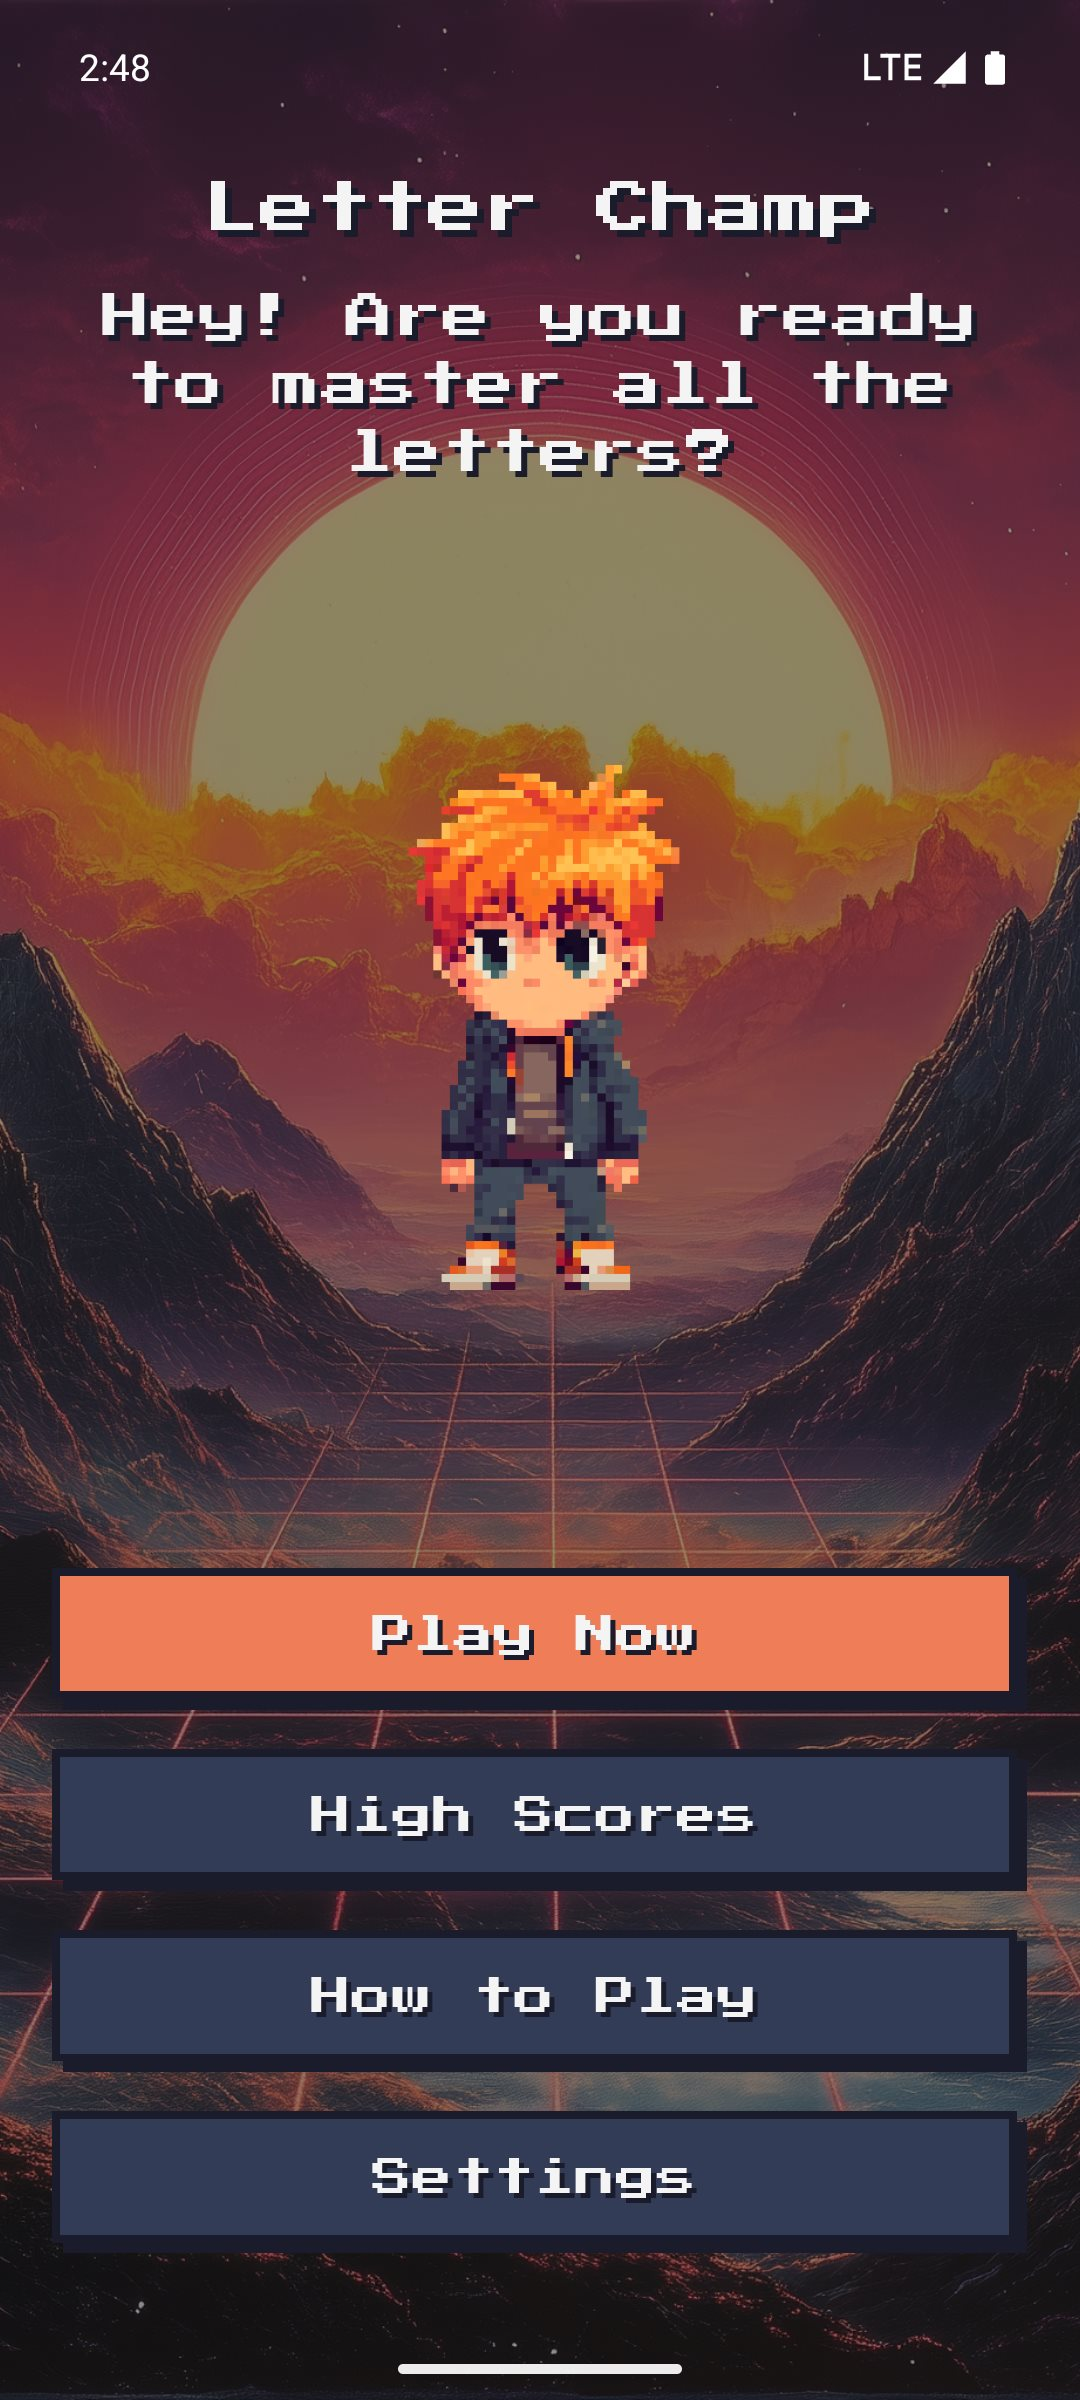
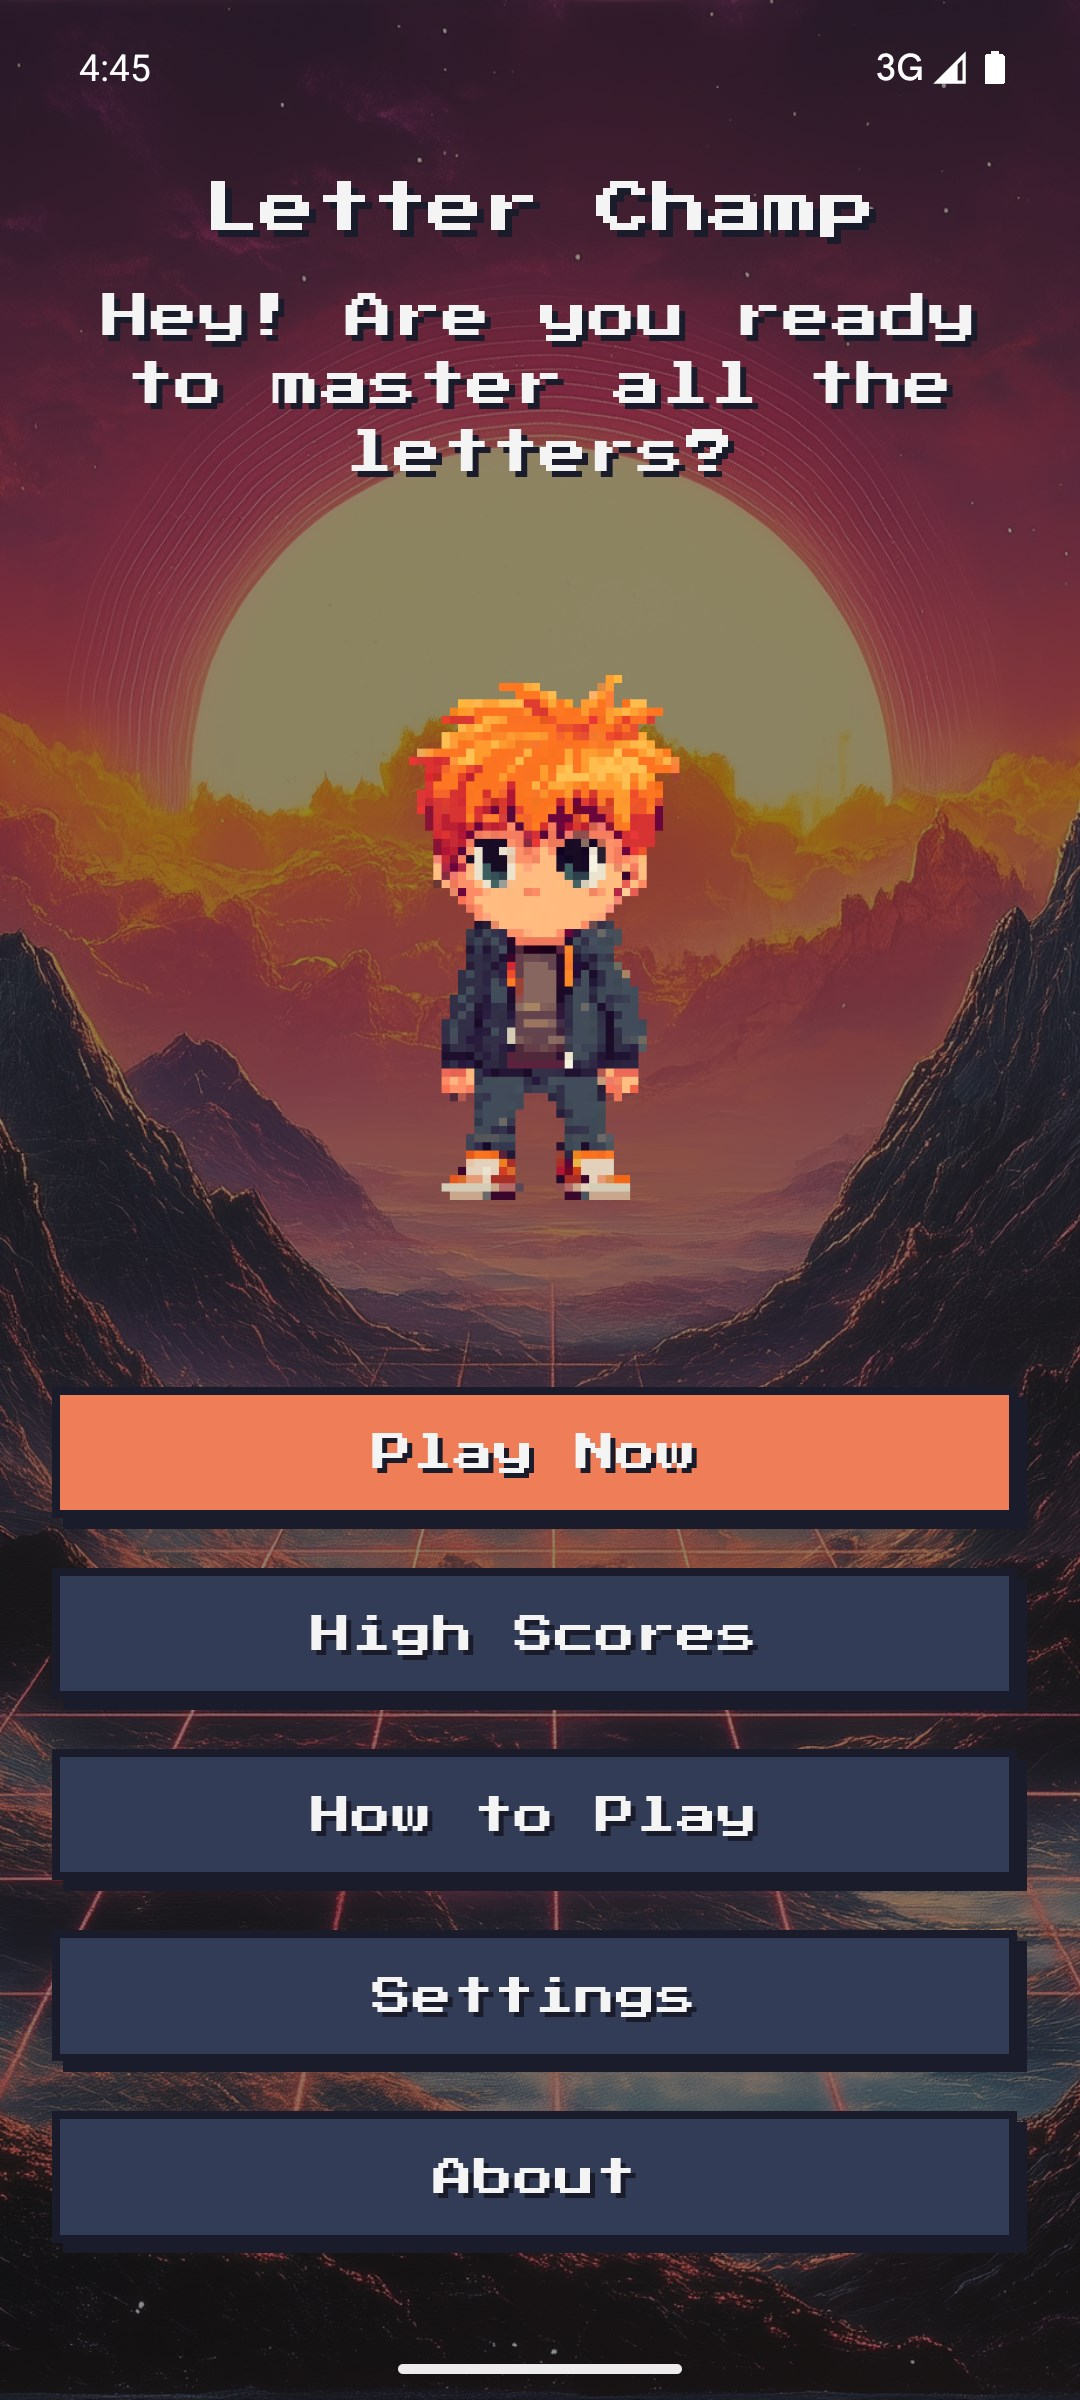
Add About page and credits for v1.0.1

diff --git a/lib/screens/about_screen.dart b/lib/screens/about_screen.dart
@@ -1,0 +1,187 @@
+import 'package:flutter/material.dart';
+import 'package:flutter/services.dart';
+import 'package:letterchamp/services/settings_service.dart';
+import 'package:letterchamp/services/sound_effects_manager.dart';
+import 'package:letterchamp/theme/retro_theme.dart';
+import 'package:letterchamp/theme/retro_widgets.dart';
+import 'package:url_launcher/url_launcher.dart';
+
+/// A short introduction and the app's creator and music credits.
+class AboutScreen extends StatefulWidget {
+  const AboutScreen({super.key});
+
+  @override
+  State<AboutScreen> createState() => _AboutScreenState();
+}
+
+class _AboutScreenState extends State<AboutScreen> {
+  bool _loading = true;
+  bool _swedish = false;
+
+  @override
+  void initState() {
+    super.initState();
+    _loadLanguage();
+  }
+
+  Future<void> _loadLanguage() async {
+    final language = await SettingsService().getLanguage();
+    if (!mounted) return;
+    setState(() {
+      _swedish = language == 'sv';
+      _loading = false;
+    });
+  }
+
+  void _goBack() {
+    SoundEffectsManager().play(SoundEffect.click);
+    Navigator.pop(context);
+  }
+
+  Future<void> _openGoodjob() async {
+    bool opened = false;
+    try {
+      opened = await launchUrl(
+        Uri.parse('https://goodjob.nu'),
+        mode: LaunchMode.externalApplication,
+      );
+    } on PlatformException {
+      // Let the player know if no browser can handle the link.
+    }
+    if (!opened && mounted) {
+      ScaffoldMessenger.of(context).showSnackBar(
+        retroSnackBar(
+          _swedish
+              ? 'Kunde inte öppna goodjob.nu'
+              : 'Could not open goodjob.nu',
+        ),
+      );
+    }
+  }
+
+  @override
+  Widget build(BuildContext context) {
+    final mainMenuText = _swedish ? 'Huvudmeny' : 'Main Menu';
+
+    return Scaffold(
+      body: RetroBackground(
+        child: SafeArea(
+          child: Padding(
+            padding: const EdgeInsets.symmetric(horizontal: 20),
+            child: Column(
+              children: [
+                AppBar(
+                  backgroundColor: Colors.transparent,
+                  elevation: 0,
+                  leading: RetroIconButton(
+                    glyph: PixelGlyph.arrowLeft,
+                    tooltip: mainMenuText,
+                    onPressed: _goBack,
+                  ),
+                  centerTitle: true,
+                  title: Text(
+                    _swedish ? 'Om spelet' : 'About',
+                    style: RetroText.style(16),
+                  ),
+                ),
+                Expanded(
+                  child:
+                      _loading
+                          ? const Center(child: RetroLoader())
+                          : LayoutBuilder(
+                            builder: (context, viewport) {
+                              return SingleChildScrollView(
+                                child: ConstrainedBox(
+                                  constraints: BoxConstraints(
+                                    minHeight: viewport.maxHeight,
+                                  ),
+                                  child: Padding(
+                                    padding: const EdgeInsets.symmetric(
+                                      vertical: 24,
+                                    ),
+                                    child: Column(
+                                      mainAxisAlignment:
+                                          MainAxisAlignment.center,
+                                      children: [
+                                        Text(
+                                          'Letter Champ',
+                                          style: RetroText.style(20),
+                                          textAlign: TextAlign.center,
+                                        ),
+                                        const SizedBox(height: 24),
+                                        Text(
+                                          _swedish
+                                              ? 'Jag gjorde Letter Champ för min son, så att han kunde öva på att skriva bokstäver i rätt ordning och riktning.\n\nDet är ett hobbyprojekt som jag delar i hopp om att fler barn får glädje av det.'
+                                              : 'I made Letter Champ for my son to practice drawing letters in the right order and direction.\n\nIt is a hobby project, shared in the hope that it helps other children learn, too.',
+                                          style: RetroText.style(
+                                            12,
+                                          ).copyWith(height: 1.7),
+                                          textAlign: TextAlign.center,
+                                        ),
+                                        const SizedBox(height: 24),
+                                        TextButton(
+                                          onPressed: _openGoodjob,
+                                          style: TextButton.styleFrom(
+                                            foregroundColor: RetroColors.mist,
+                                            minimumSize: const Size(48, 48),
+                                            padding: const EdgeInsets.symmetric(
+                                              horizontal: 12,
+                                            ),
+                                          ),
+                                          child: Text.rich(
+                                            TextSpan(
+                                              text:
+                                                  _swedish
+                                                      ? 'Skapad av '
+                                                      : 'Made by ',
+                                              children: const [
+                                                TextSpan(
+                                                  text: 'goodjob.nu',
+                                                  style: TextStyle(
+                                                    decoration:
+                                                        TextDecoration
+                                                            .underline,
+                                                  ),
+                                                ),
+                                              ],
+                                            ),
+                                            style: RetroText.style(
+                                              12,
+                                              color: RetroColors.mist,
+                                              shadow: false,
+                                            ),
+                                            textAlign: TextAlign.center,
+                                          ),
+                                        ),
+                                        const SizedBox(height: 24),
+                                        // Wording required by the music's license.
+                                        Text(
+                                          'Credit: https://www.FesliyanStudios.com Background Music',
+                                          style: RetroText.style(
+                                            10,
+                                            color: RetroColors.mist,
+                                            shadow: false,
+                                          ).copyWith(height: 1.7),
+                                          textAlign: TextAlign.center,
+                                        ),
+                                        const SizedBox(height: 40),
+                                        RetroButton(
+                                          label: mainMenuText,
+                                          onPressed: _goBack,
+                                        ),
+                                      ],
+                                    ),
+                                  ),
+                                ),
+                              );
+                            },
+                          ),
+                ),
+              ],
+            ),
+          ),
+        ),
+      ),
+    );
+  }
+}

diff --git a/lib/screens/settings_screen.dart b/lib/screens/settings_screen.dart
@@ -259,17 +259,6 @@ class _SettingsScreenState extends State<SettingsScreen> {
                                       ),
                                     ),
                                     const SizedBox(height: 24),
-                                    // Wording required by the music's license.
-                                    Text(
-                                      'Credit: https://www.FesliyanStudios.com Background Music',
-                                      style: RetroText.style(
-                                        10,
-                                        color: RetroColors.mist,
-                                        shadow: false,
-                                      ),
-                                      textAlign: TextAlign.center,
-                                    ),
-                                    const SizedBox(height: 16),
                                   ],
                                 ),
                               ),

diff --git a/lib/main.dart b/lib/main.dart
@@ -3,6 +3,7 @@ import 'package:flutter/material.dart';
 import 'package:flutter/services.dart';
 import 'package:google_fonts/google_fonts.dart';
 
+import 'screens/about_screen.dart';
 import 'screens/gameplay_screen.dart';
 import 'screens/highscore_screen.dart';
 import 'screens/instruction_screen.dart';
@@ -47,6 +48,7 @@ class LetterChampApp extends StatelessWidget {
       routes: {
         '/': (context) => const LandingScreen(),
         '/settings': (context) => const SettingsScreen(),
+        '/about': (context) => const AboutScreen(),
         '/gameplay': (context) => const GameplayScreen(),
         '/highscore': (context) => const HighscoreScreen(),
         '/instructions': (context) => const InstructionScreen(),

diff --git a/lib/screens/landing_screen.dart b/lib/screens/landing_screen.dart
@@ -127,6 +127,11 @@ class _LandingScreenState extends State<LandingScreen> {
                                   swedish ? 'Inställningar' : 'Settings',
                                   '/settings',
                                 ),
+                                const SizedBox(height: 15),
+                                _menuButton(
+                                  swedish ? 'Om spelet' : 'About',
+                                  '/about',
+                                ),
                                 const SizedBox(height: 32),
                               ],
                             ),
